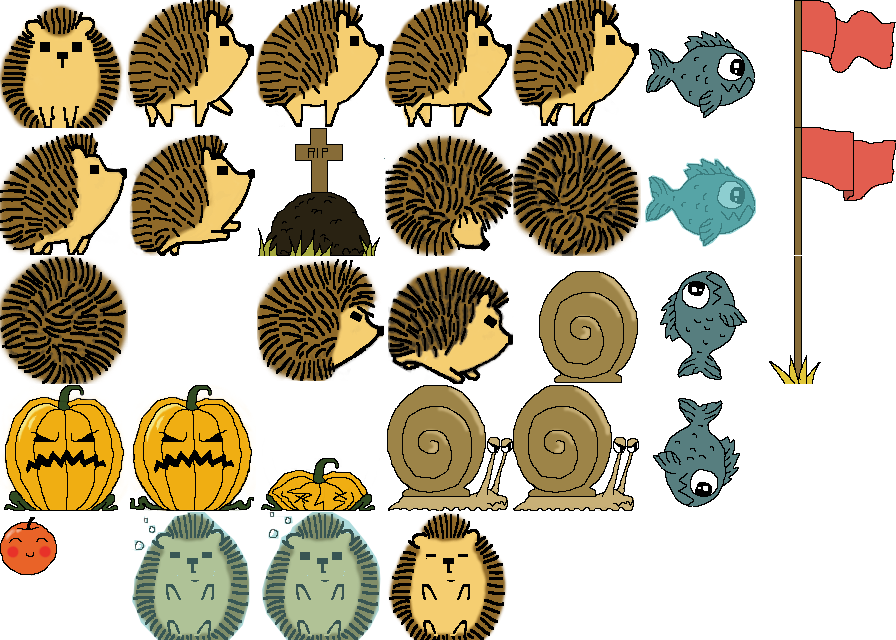
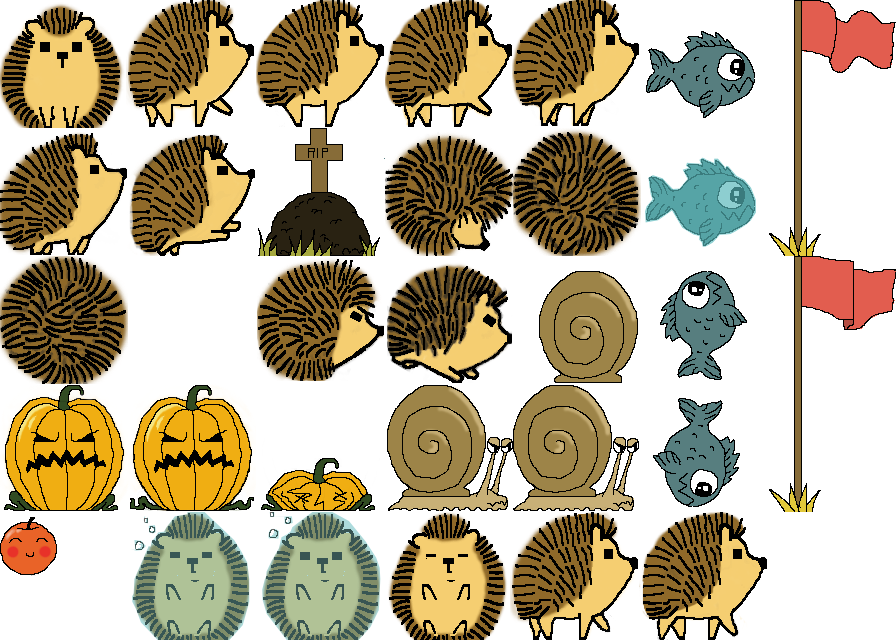
meta sprite and font

diff --git a/public/js/layers/dashboard.js b/public/js/layers/dashboard.js
@@ -1,18 +1,19 @@
 export function createDashboardLayer(font, playerEnv) {
-    const LINE1 = font.size;
-    const LINE2 = font.size * 2;
 
     return function drawDashboard(context) {
         const {score, time} = playerEnv.playerController;
-        font.print('MARIO', context, 16, LINE1);
-        font.print(score.toString().padStart(6, '0'), context, 16, LINE2);
-
+        context.font = "48px Comic Sans MS";
+        context.fillStyle = "white";
+        context.fillText("SCORE", 50, 64);
+        context.fillText("TIME", 1868, 64);
+        context.fillText(score.toString(), 50, 128);
+        context.fillText(time.toFixed().toString(), 1968, 128);
         //font.print('@x' + coins.toString().padStart(2, '0'), context, 96, LINE2);
 
         //font.print('WORLD', context, 152, LINE1);
         //font.print('1-1', context, 160, LINE2);
 
-        font.print('TIME', context, 2000, LINE1);
-        font.print(time.toFixed().toString().padStart(4, '0'), context, 1005, LINE2);
+        //font.print('TIME', context, 2000, LINE1);
+        //font.print(time.toFixed().toString().padStart(4, '0'), context, 1005, LINE2);
     };
 }

diff --git a/public/js/entities/meta.js b/public/js/entities/meta.js
@@ -20,32 +20,26 @@ class Behavior extends Trait {
                 window.lvl = '1-2';
                 return;
             }
-            if(window.lvl === '1-2'){
-                //window.lvl = '1-3';
-                return;
-            }
-            
         }
     }
 }
 
 
 function createMetaFactory(sprite) {
-    const moveAnimation = sprite.animations.get('walk');
+    const moveAnimation = sprite.animations.get('wave');
 
-    function routeAnimation() {
-        return 'bottom';
-        return moveAnimation();
+    function routeAnimation(meta) {
+        return moveAnimation(meta.lifetime);
     }
 
 
     function drawMeta(context) {
-        sprite.draw(routeAnimation(), context, 0, 0);
+        sprite.draw(routeAnimation(this), context, 0, 0);
     }
 
     return function createMeta() {
         const meta = new Entity();
-        meta.size.set(64, 64);
+        meta.size.set(64, 256);
         
         meta.addTrait(new Behavior());
         meta.draw = drawMeta;

diff --git a/public/js/main.js b/public/js/main.js
@@ -40,7 +40,7 @@ async function load(context, camera){
     var input = setupKeyboard(hedgehog);
     input.listenTo(window);
     
-    //level.comp.layers.push(createDashboardLayer(font, playerEnv));
+    level.comp.layers.push(createDashboardLayer(context, playerEnv));
     //level.comp.layers.push(createCollisionLayer(level));
 
     const timer = new Timer(1/60);

diff --git a/public/js/layers/sprites.js b/public/js/layers/sprites.js
@@ -1,4 +1,4 @@
-export function createSpriteLayer(entities, width = 128, height = 128) {
+export function createSpriteLayer(entities, width = 128, height = 256) {
     const spriteBuffer = document.createElement('canvas');
     spriteBuffer.width = width;
     spriteBuffer.height = height;

diff --git a/public/js/traits/Stomp.js b/public/js/traits/Stomp.js
@@ -3,7 +3,7 @@ import {Trait} from '../Entity.js';
 export default class Stomp extends Trait {
     constructor() {
         super('stomp');
-        this.bounceSpeed = 600;
+        this.bounceSpeed = 1200;
 
         this.onStomp = function(){}
     }
